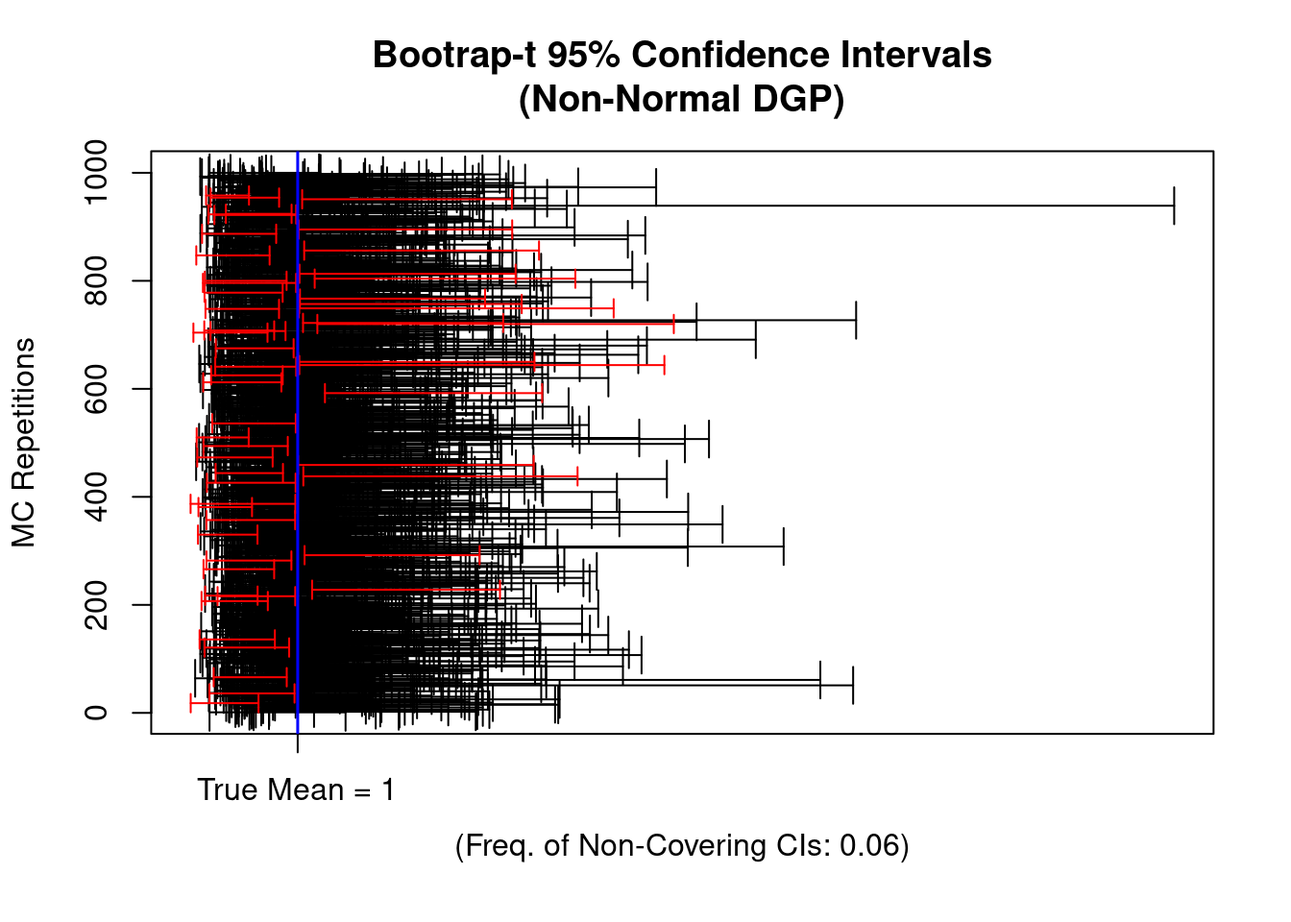
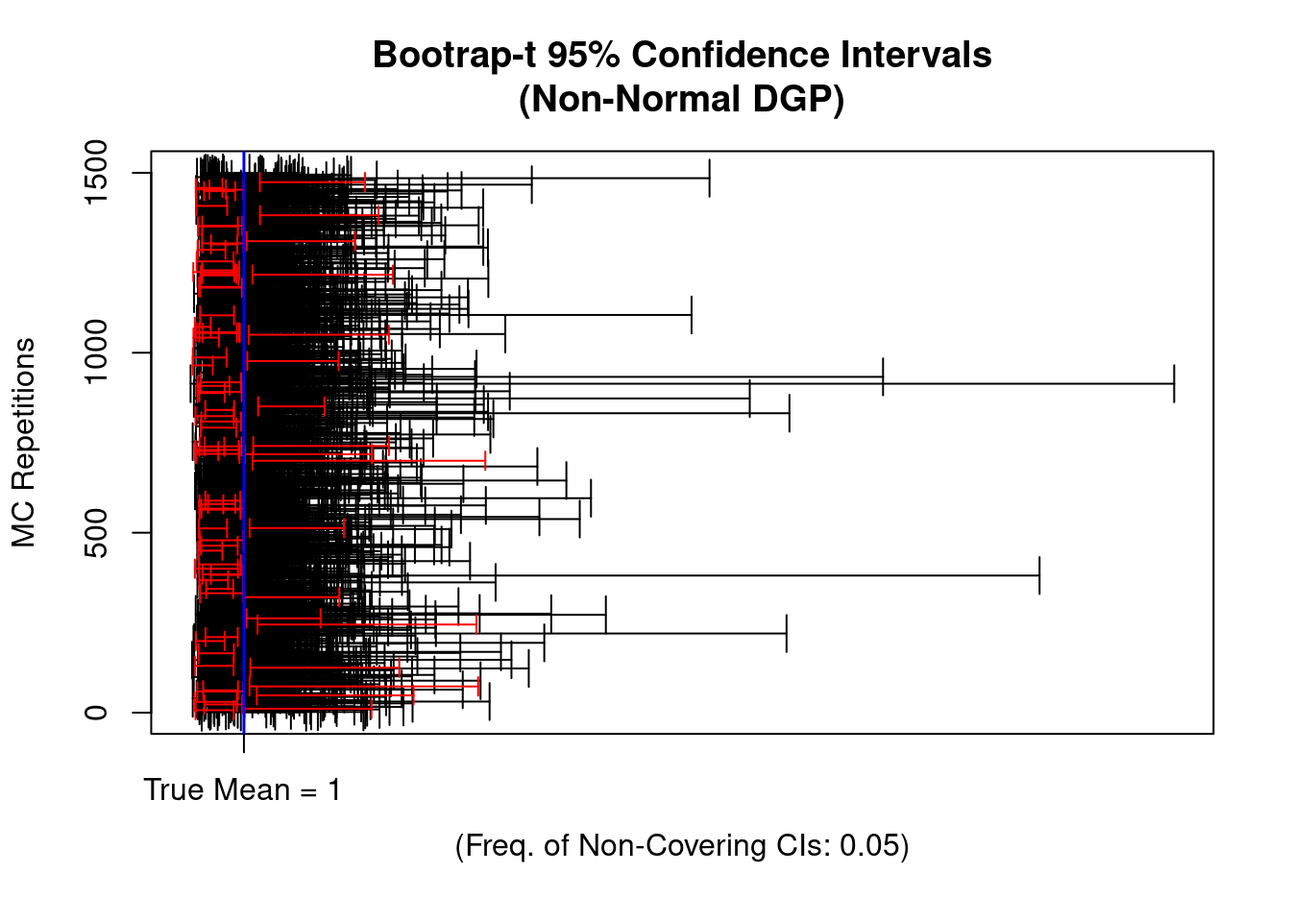
upd1

diff --git a/Ch3_Solutions.html b/Ch3_Solutions.html
@@ -113,23 +113,29 @@ code span.wa { color: #60a0b0; font-weight: bold; font-style: italic; } /* Warni
 <h2 class="unnumbered anchored" data-anchor-id="solutions">Solutions</h2>
 <section id="exercise-1." class="level4 unnumbered">
 <h4 class="unnumbered anchored" data-anchor-id="exercise-1.">Exercise 1.</h4>
-<section id="a-part-1." class="level5 unnumbered">
-<h5 class="unnumbered anchored" data-anchor-id="a-part-1.">(a) Part 1.</h5>
+<section id="a" class="level5">
+<h5 class="anchored" data-anchor-id="a">(a)</h5>
 <p>The exact point-wise distribution of <span class="math inline">\(nF_n(x)\)</span> for a given <span class="math inline">\(x\in\mathbb{R}.\)</span><br>
 <span class="math display">\[
 \begin{align*}
 F_n(x)
-&amp; = \frac{1}{n} 1_{(X_i\leq x)}\\
+&amp; = \frac{1}{n} \sum_{i=1}^n 1_{(X_i\leq x)}\\
 \Rightarrow nF_n(x)
-&amp; = 1_{(X_i\leq x)} \sim \mathcal{Binom}\left(n,p=F(x)\right),
+&amp; = \sum_{i=1}^n 1_{(X_i\leq x)} \sim \mathcal{Binom}\left(n,p=F(x)\right),
 \end{align*}
 \]</span> since <span class="math inline">\(1_{(X_i\leq x)}\)</span> is a Bernoulli random variable with parameter <span class="math display">\[
-p=P(1_{(X_i\leq x)} = 1) = P(X_i \leq x) = F(x).
+\begin{align*}
+p
+&amp; = P(1_{(X_i\leq x)} = 1)
+&amp; = P(X_i \leq x)
+&amp; = F(x).
+\end{align*}
 \]</span></p>
 </section>
-<section id="a-part-2." class="level5 unnumbered">
-<h5 class="unnumbered anchored" data-anchor-id="a-part-2.">(a) Part 2.</h5>
-<p>The asymptotic point-wise distribution of <span class="math inline">\(F_n(x)\)</span> for a given <span class="math inline">\(x\in\mathbb{R}.\)</span> From part 1, we have that <span class="math display">\[
+<section id="b" class="level5">
+<h5 class="anchored" data-anchor-id="b">(b)</h5>
+<!-- The asymptotic  point-wise distribution of $F_n(x)$ for a given $x\in\mathbb{R}.$   -->
+<p>From (a), we have that <span class="math display">\[
 \begin{align*}
 \mathbb{E}(nF_n(x)) &amp;= nF(x)\\
 \Leftrightarrow\quad  \mathbb{E}(F_n(x)) &amp;= F(x)
@@ -140,11 +146,32 @@ p=P(1_{(X_i\leq x)} = 1) = P(X_i \leq x) = F(x).
 \Leftrightarrow \quad \mathbb{V}(F_n(x)) &amp;= \frac{F(x)(1-F(x))}{n}.
 \end{align*}
 \]</span></p>
-<p>Moreover, since <span class="math inline">\(F_n(x) = \frac{1}{n} 1_{(X_i\leq x)}\)</span> is an average over i.i.d. random variables <span class="math inline">\(1_{(X_1\leq x)},\dots,1_{(X_n\leq x)},\)</span> the standard CLT implies <span class="math display">\[
+<p>Moreover, since <span class="math inline">\(F_n(x) = \frac{1}{n} \sum_{i=1}^n 1_{(X_i\leq x)}\)</span> is an average over i.i.d. random variables <span class="math inline">\(1_{(X_1\leq x)},\dots,1_{(X_n\leq x)},\)</span> the standard CLT implies <span class="math display">\[
 \frac{F_n(x)-F(x)}{\sqrt{\frac{F(x)(1-F(x))}{n}}}\to_d\mathcal{N}(0,1).
-\]</span> Or <span class="math display">\[
+\]</span> Or with a slight abuse of notation: <span class="math display">\[
 F_n(x)\overset{a}{\sim}\mathcal{N}\left(F(x),\frac{F(x)(1-F(x))}{n}\right).
 \]</span></p>
+</section>
+<section id="c" class="level5">
+<h5 class="anchored" data-anchor-id="c">(c)</h5>
+<p>The mean squared error between <span class="math inline">\(F_n(x)\)</span> and <span class="math inline">\(F(x)\)</span> is given by <span class="math display">\[
+\begin{align*}
+\operatorname{MSE}(F_n(x))
+&amp;= \mathbb{E}\left((F_n(x)-F(x))^2\right)\\[2ex]
+&amp;= \mathbb{V}(F_n(x)) + \left(\mathbb{E}(F_n(x))-F(x)\right)^2.
+\end{align*}
+\]</span> It follows from our previous results that for each <span class="math inline">\(x\in\mathbb{R}\)</span> <span class="math display">\[
+\mathbb{V}(F_n(x)) = \frac{F(x)(1-F(x))}{n} \to 0
+\]</span> as <span class="math inline">\(n\to\infty,\)</span> and that <span class="math display">\[
+\mathbb{E}(F_n(x)) -F(x) = 0
+\]</span> for all <span class="math inline">\(n.\)</span> Therefore, <span class="math display">\[
+\operatorname{MSE}(F_n(x)) = \mathbb{V}(F_n(x)) \to 0
+\]</span> as <span class="math inline">\(n\to\infty.\)</span> Thus we can conclude that <span class="math inline">\(F_n(x)\)</span> converges in the mean-square sense to <span class="math inline">\(F(x)\)</span> for each <span class="math inline">\(x\in\mathbb{R},\)</span> <span class="math display">\[
+F_n(x)\to_{ms} F(x)
+\]</span> as <span class="math inline">\(n\to\infty.\)</span></p>
+<p>Since convergence in the mean square sense implies convergence in probability, we also have that for each <span class="math inline">\(x\in\mathbb{R}\)</span> <span class="math display">\[
+F_n(x)\to_{p} F(x)
+\]</span> as <span class="math inline">\(n\to\infty\)</span> which shows that <span class="math inline">\(F_n(x)\)</span> is weakly consistent for <span class="math inline">\(F(x)\)</span> for each <span class="math inline">\(x\in\mathbb{R}.\)</span></p>
 </section>
 </section>
 <section id="exercise-2." class="level4 unnumbered">
@@ -162,7 +189,8 @@ Tip
 <p>Another, equivalent way to define uniform convergence:</p>
 <p><span class="math inline">\(g_n(\cdot)\)</span> converges <strong>uniformly</strong> to <span class="math inline">\(g(\cdot)\)</span> if for every <span class="math inline">\(\varepsilon&gt;0,\)</span> there exists an <span class="math inline">\(N\)</span> such that <span class="math display">\[
 |g_n(x) - g(x)| &lt; \varepsilon
-\]</span> for all <span class="math inline">\(n\geq N\)</span> and <strong>for all</strong> <span class="math inline">\(x\in\mathcal{X}.\)</span> I.e., if it is possible to draw an <span class="math inline">\(\varepsilon\)</span>-band around the graph of <span class="math inline">\(g(x)\)</span> that contains all of the graphs of <span class="math inline">\(g_n(x)\)</span> for large enough <span class="math inline">\(n.\)</span></p>
+\]</span> for all <span class="math inline">\(n\geq N\)</span> and <strong>for all</strong> <span class="math inline">\(x\in\mathcal{X}.\)</span></p>
+<p>I.e., <span class="math inline">\(g_n(\cdot)\)</span> converges <strong>uniformly</strong> to <span class="math inline">\(g(\cdot)\)</span> if it is possible to draw an <span class="math inline">\(\varepsilon\)</span>-band around the graph of <span class="math inline">\(g(x)\)</span> that contains <strong>all of the graphs</strong> of <span class="math inline">\(g_n(x)\)</span> for large enough <span class="math inline">\(n.\)</span></p>
 </div>
 </div>
 <p><strong>Example 1:</strong> <span class="math inline">\(\mathcal{X}=\mathbb{R}\)</span><br> The function <span class="math display">\[
@@ -200,13 +228,13 @@ g(x)=0,
 <li><span class="math inline">\(\mathbb{V}(X_i)=\sigma^2&lt;\infty\)</span></li>
 <li>Estimator: <span class="math inline">\(\bar{X}_n=n^{-1}\sum_{i=1}^nX_i\)</span></li>
 </ul>
-<p>If <span class="math inline">\(F\)</span> is a Normal distribution:</p>
+<p>If <span class="math inline">\(F\)</span> is a normal distribution:</p>
 <p><span class="math display">\[
 \begin{array}{rlc}
 \sqrt{n}\left(\frac{\bar{X}_n-\mu}{\sigma}\right)\sim \mathcal{N}(0,1)\quad\text{for all}\;n.
 \end{array}
 \]</span></p>
-<p>For Non-Normal distributions <span class="math inline">\(F\)</span> we have by the Central <a href="https://www.statlect.com/asymptotic-theory/central-limit-theorem">Limit Theorem</a>: <span class="math display">\[
+<p>For non-normal distributions <span class="math inline">\(F\)</span> we have by the classic CLT: <span class="math display">\[
 \begin{array}{rlc}
 \sqrt{n}\left(\frac{\bar{X}_n-\mu}{\sigma}\right)\to_d \mathcal{N}(0,1)\quad\text{as}\;n\to\infty.
 \end{array}
@@ -219,20 +247,20 @@ g(x)=0,
 \]</span></p>
 <p>The <strong>classic confidence interval</strong> is then based on the above (asymptotic) normality result: <span class="math display">\[
 \operatorname{CI}_{\operatorname{classic},n}=\left[\bar{X}_n\,-\,z_{1-\alpha/2}\frac{s}{\sqrt{n}},\bar{X}_n\,+\,z_{1-\alpha/2}\frac{s}{\sqrt{n}}\right],
-\]</span> where <span class="math inline">\(z_{1-\alpha/2}\)</span> is the <span class="math inline">\((1-\alpha/2)\)</span>-quantile of the standard normal distribution. Alternatively, one can apply a small-sample correction by using the <span class="math inline">\((1-\alpha/2)\)</span>-quantile <span class="math inline">\(t_{n-1, 1-\alpha/2}\)</span> of the <span class="math inline">\(t\)</span>-distribution with <span class="math inline">\(n-1\)</span> degrees of freedom.</p>
+\]</span> where <span class="math inline">\(z_{1-\alpha/2}\)</span> is the <span class="math inline">\((1-\alpha/2)\)</span>-quantile of the standard normal distribution. Alternatively, one can apply a “small-sample correction” by using the <span class="math inline">\((1-\alpha/2)\)</span>-quantile <span class="math inline">\(t_{n-1, 1-\alpha/2}\)</span> of the <span class="math inline">\(t\)</span>-distribution with <span class="math inline">\(n-1\)</span> degrees of freedom.</p>
 <p>From the above arguments it follows that: <span class="math display">\[
-\mathbb{P}\left(\mu\in \operatorname{CI}_{\operatorname{classic},n}\right)\to 1-\alpha\quad\text{as}\quad n\to\infty.
+P\left(\mu\in \operatorname{CI}_{\operatorname{classic},n}\right)\to 1-\alpha\quad\text{as}\quad n\to\infty.
 \]</span></p>
-<p>Let us consider the finite-<span class="math inline">\(n\)</span> (with <span class="math inline">\(n=30\)</span>) performance of the classic confidence interval for the case where <span class="math inline">\(F\)</span> is a <strong>normal distribution</strong> with mean <span class="math inline">\(\mu=1\)</span> and standard deviation <span class="math inline">\(\sigma=2\)</span>:</p>
+<p>Let us consider the finite-<span class="math inline">\(n\)</span> (with <span class="math inline">\(n=20\)</span>) performance of the classic confidence interval for the case where <span class="math inline">\(F\)</span> is a <strong>normal distribution</strong> with mean <span class="math inline">\(\mu=1\)</span> and standard deviation <span class="math inline">\(\sigma=2\)</span>:</p>
 <div class="cell">
 <div class="sourceCode cell-code" id="cb1"><pre class="sourceCode r code-with-copy"><code class="sourceCode r"><span id="cb1-1"><a href="#cb1-1" aria-hidden="true" tabindex="-1"></a><span class="do">##  Setup:</span></span>
-<span id="cb1-2"><a href="#cb1-2" aria-hidden="true" tabindex="-1"></a>n     <span class="ot">&lt;-</span>   <span class="dv">30</span> <span class="co"># Sample Size</span></span>
+<span id="cb1-2"><a href="#cb1-2" aria-hidden="true" tabindex="-1"></a>n     <span class="ot">&lt;-</span>   <span class="dv">20</span> <span class="co"># Sample Size</span></span>
 <span id="cb1-3"><a href="#cb1-3" aria-hidden="true" tabindex="-1"></a>mean  <span class="ot">&lt;-</span>    <span class="dv">1</span> <span class="co"># Mean</span></span>
 <span id="cb1-4"><a href="#cb1-4" aria-hidden="true" tabindex="-1"></a>sdev  <span class="ot">&lt;-</span>    <span class="dv">2</span> <span class="co"># Standard Deviation</span></span>
 <span id="cb1-5"><a href="#cb1-5" aria-hidden="true" tabindex="-1"></a>alpha <span class="ot">&lt;-</span> <span class="fl">0.05</span> <span class="co"># Level</span></span>
 <span id="cb1-6"><a href="#cb1-6" aria-hidden="true" tabindex="-1"></a></span>
 <span id="cb1-7"><a href="#cb1-7" aria-hidden="true" tabindex="-1"></a><span class="fu">set.seed</span>(<span class="dv">123</span>)</span>
-<span id="cb1-8"><a href="#cb1-8" aria-hidden="true" tabindex="-1"></a>B          <span class="ot">&lt;-</span> <span class="dv">1000</span> <span class="co"># MC repetitions</span></span>
+<span id="cb1-8"><a href="#cb1-8" aria-hidden="true" tabindex="-1"></a>B          <span class="ot">&lt;-</span> <span class="dv">1500</span> <span class="co"># MC repetitions</span></span>
 <span id="cb1-9"><a href="#cb1-9" aria-hidden="true" tabindex="-1"></a>CI.lo.vec  <span class="ot">&lt;-</span> <span class="fu">rep</span>(<span class="cn">NA</span>, B)</span>
 <span id="cb1-10"><a href="#cb1-10" aria-hidden="true" tabindex="-1"></a>CI.up.vec  <span class="ot">&lt;-</span> <span class="fu">rep</span>(<span class="cn">NA</span>, B)</span>
 <span id="cb1-11"><a href="#cb1-11" aria-hidden="true" tabindex="-1"></a>  </span>
@@ -280,17 +308,17 @@ g(x)=0,
 </div>
 </div>
 </section>
-<section id="a-part-2-classic-confidence-interval-n30-and-x_isim-chi2_1" class="level5 unnumbered">
-<h5 class="unnumbered anchored" data-anchor-id="a-part-2-classic-confidence-interval-n30-and-x_isim-chi2_1">(a) Part 2: Classic Confidence Interval (<span class="math inline">\(n=30\)</span> and <span class="math inline">\(X_i\sim \chi^2_1\)</span>)</h5>
+<section id="a-part-2-classic-confidence-interval-n20-and-x_isim-chi2_1" class="level5 unnumbered">
+<h5 class="unnumbered anchored" data-anchor-id="a-part-2-classic-confidence-interval-n20-and-x_isim-chi2_1">(a) Part 2: Classic Confidence Interval (<span class="math inline">\(n=20\)</span> and <span class="math inline">\(X_i\sim \chi^2_1\)</span>)</h5>
 <p>Now, we consider the finite-<span class="math inline">\(n\)</span> performance of the classic confidence interval under the same setup as above, but for the case where <span class="math inline">\(F\)</span> is a <strong>non-normal distribution</strong>, namely, a <span class="math inline">\(\chi^2_1\)</span>-distribution with <span class="math inline">\(1\)</span> degree of freedom:</p>
 <div class="cell">
 <div class="sourceCode cell-code" id="cb2"><pre class="sourceCode r code-with-copy"><code class="sourceCode r"><span id="cb2-1"><a href="#cb2-1" aria-hidden="true" tabindex="-1"></a><span class="do">## Setup:</span></span>
-<span id="cb2-2"><a href="#cb2-2" aria-hidden="true" tabindex="-1"></a>n     <span class="ot">&lt;-</span>   <span class="dv">30</span>  <span class="co"># Sample Size</span></span>
+<span id="cb2-2"><a href="#cb2-2" aria-hidden="true" tabindex="-1"></a>n     <span class="ot">&lt;-</span>   <span class="dv">20</span>  <span class="co"># Sample Size</span></span>
 <span id="cb2-3"><a href="#cb2-3" aria-hidden="true" tabindex="-1"></a>df    <span class="ot">&lt;-</span>    <span class="dv">1</span>  <span class="co"># (=&gt; mean==1)</span></span>
 <span id="cb2-4"><a href="#cb2-4" aria-hidden="true" tabindex="-1"></a>alpha <span class="ot">&lt;-</span> <span class="fl">0.05</span> <span class="co"># Level</span></span>
 <span id="cb2-5"><a href="#cb2-5" aria-hidden="true" tabindex="-1"></a></span>
 <span id="cb2-6"><a href="#cb2-6" aria-hidden="true" tabindex="-1"></a><span class="fu">set.seed</span>(<span class="dv">123</span>)</span>
-<span id="cb2-7"><a href="#cb2-7" aria-hidden="true" tabindex="-1"></a>B          <span class="ot">&lt;-</span> <span class="dv">1000</span> <span class="co"># MC repetitions</span></span>
+<span id="cb2-7"><a href="#cb2-7" aria-hidden="true" tabindex="-1"></a>B          <span class="ot">&lt;-</span> <span class="dv">1500</span> <span class="co"># MC repetitions</span></span>
 <span id="cb2-8"><a href="#cb2-8" aria-hidden="true" tabindex="-1"></a>CI.lo.vec  <span class="ot">&lt;-</span> <span class="fu">rep</span>(<span class="cn">NA</span>, B)</span>
 <span id="cb2-9"><a href="#cb2-9" aria-hidden="true" tabindex="-1"></a>CI.up.vec  <span class="ot">&lt;-</span> <span class="fu">rep</span>(<span class="cn">NA</span>, B)</span>
 <span id="cb2-10"><a href="#cb2-10" aria-hidden="true" tabindex="-1"></a>  </span>
@@ -338,12 +366,12 @@ g(x)=0,
 </div>
 </div>
 </section>
-<section id="b-standard-bootstrap-confidence-interval-n30-and-x_isim-chi2_1" class="level5 unnumbered">
-<h5 class="unnumbered anchored" data-anchor-id="b-standard-bootstrap-confidence-interval-n30-and-x_isim-chi2_1">(b) Standard bootstrap confidence interval (<span class="math inline">\(n=30\)</span> and <span class="math inline">\(X_i\sim \chi^2_1\)</span>)</h5>
+<section id="b-standard-bootstrap-confidence-interval-n20-and-x_isim-chi2_1" class="level5 unnumbered">
+<h5 class="unnumbered anchored" data-anchor-id="b-standard-bootstrap-confidence-interval-n20-and-x_isim-chi2_1">(b) Standard bootstrap confidence interval (<span class="math inline">\(n=20\)</span> and <span class="math inline">\(X_i\sim \chi^2_1\)</span>)</h5>
 <p>Let’s generate an iid random sample <span class="math inline">\(S_n\)</span> with <span class="math inline">\(X_i\sim\chi^2_1\)</span> and the corresponding estimate <span class="math inline">\(\bar X_n\)</span>:</p>
 <div class="cell">
 <div class="sourceCode cell-code" id="cb3"><pre class="sourceCode r code-with-copy"><code class="sourceCode r"><span id="cb3-1"><a href="#cb3-1" aria-hidden="true" tabindex="-1"></a><span class="do">## Setup:</span></span>
-<span id="cb3-2"><a href="#cb3-2" aria-hidden="true" tabindex="-1"></a>n     <span class="ot">&lt;-</span>   <span class="dv">30</span>  <span class="co"># Sample Size</span></span>
+<span id="cb3-2"><a href="#cb3-2" aria-hidden="true" tabindex="-1"></a>n     <span class="ot">&lt;-</span>   <span class="dv">20</span>  <span class="co"># Sample Size</span></span>
 <span id="cb3-3"><a href="#cb3-3" aria-hidden="true" tabindex="-1"></a>df    <span class="ot">&lt;-</span>    <span class="dv">1</span>  <span class="co"># (=&gt; mean==1)</span></span>
 <span id="cb3-4"><a href="#cb3-4" aria-hidden="true" tabindex="-1"></a></span>
 <span id="cb3-5"><a href="#cb3-5" aria-hidden="true" tabindex="-1"></a><span class="do">## IID random sample:</span></span>
@@ -353,7 +381,7 @@ g(x)=0,
 <span id="cb3-9"><a href="#cb3-9" aria-hidden="true" tabindex="-1"></a><span class="do">## Empirical mean:</span></span>
 <span id="cb3-10"><a href="#cb3-10" aria-hidden="true" tabindex="-1"></a>(X.bar <span class="ot">&lt;-</span> <span class="fu">mean</span>(S_n))</span></code><button title="Copy to Clipboard" class="code-copy-button"><i class="bi"></i></button></pre></div>
 <div class="cell-output cell-output-stdout">
-<pre><code>[1] 0.6714433</code></pre>
+<pre><code>[1] 0.6737282</code></pre>
 </div>
 </div>
 <p>The <strong>standard bootstrap confidence interval</strong> is given by (see lecture script): <span class="math display">\[
@@ -398,13 +426,13 @@ g(x)=0,
 <span id="cb6-9"><a href="#cb6-9" aria-hidden="true" tabindex="-1"></a><span class="fu">c</span>(CI.Basic.Bootstr.lo, CI.Basic.Bootstr.up)</span></code><button title="Copy to Clipboard" class="code-copy-button"><i class="bi"></i></button></pre></div>
 <div class="cell-output cell-output-stdout">
 <pre><code>     2.5%     97.5% 
-0.2768057 0.9881280 </code></pre>
+0.1545224 1.0425228 </code></pre>
 </div>
 </div>
 <p>Now, we can investigate the finite-<span class="math inline">\(n\)</span> performance of the standard bootstrap confidence interval:</p>
 <div class="cell">
 <div class="sourceCode cell-code" id="cb8"><pre class="sourceCode r code-with-copy"><code class="sourceCode r"><span id="cb8-1"><a href="#cb8-1" aria-hidden="true" tabindex="-1"></a><span class="do">## Setup:</span></span>
-<span id="cb8-2"><a href="#cb8-2" aria-hidden="true" tabindex="-1"></a>n     <span class="ot">&lt;-</span>   <span class="dv">30</span>  <span class="co"># Sample Size</span></span>
+<span id="cb8-2"><a href="#cb8-2" aria-hidden="true" tabindex="-1"></a>n     <span class="ot">&lt;-</span>   <span class="dv">20</span>  <span class="co"># Sample Size</span></span>
 <span id="cb8-3"><a href="#cb8-3" aria-hidden="true" tabindex="-1"></a>df    <span class="ot">&lt;-</span>    <span class="dv">1</span>  <span class="co"># (=&gt; mean==1)</span></span>
 <span id="cb8-4"><a href="#cb8-4" aria-hidden="true" tabindex="-1"></a>mean  <span class="ot">&lt;-</span>   df</span>
 <span id="cb8-5"><a href="#cb8-5" aria-hidden="true" tabindex="-1"></a>alpha <span class="ot">&lt;-</span> <span class="fl">0.05</span> <span class="co"># Level</span></span>
@@ -412,7 +440,7 @@ g(x)=0,
 <span id="cb8-7"><a href="#cb8-7" aria-hidden="true" tabindex="-1"></a></span>
 <span id="cb8-8"><a href="#cb8-8" aria-hidden="true" tabindex="-1"></a><span class="do">## MC-Setup:</span></span>
 <span id="cb8-9"><a href="#cb8-9" aria-hidden="true" tabindex="-1"></a><span class="fu">set.seed</span>(<span class="dv">123</span>)</span>
-<span id="cb8-10"><a href="#cb8-10" aria-hidden="true" tabindex="-1"></a>B          <span class="ot">&lt;-</span> <span class="dv">1000</span> <span class="co"># MC repetitions</span></span>
+<span id="cb8-10"><a href="#cb8-10" aria-hidden="true" tabindex="-1"></a>B          <span class="ot">&lt;-</span> <span class="dv">1500</span> <span class="co"># MC repetitions</span></span>
 <span id="cb8-11"><a href="#cb8-11" aria-hidden="true" tabindex="-1"></a>CI.Basic.Bstr.lo.vec <span class="ot">&lt;-</span> <span class="fu">rep</span>(<span class="cn">NA</span>, B)</span>
 <span id="cb8-12"><a href="#cb8-12" aria-hidden="true" tabindex="-1"></a>CI.Basic.Bstr.up.vec <span class="ot">&lt;-</span> <span class="fu">rep</span>(<span class="cn">NA</span>, B)</span>
 <span id="cb8-13"><a href="#cb8-13" aria-hidden="true" tabindex="-1"></a></span>
@@ -465,17 +493,17 @@ g(x)=0,
 </div>
 </div>
 </section>
-<section id="c-bootstrap-t-confidence-interval-n30-and-x_isim-chi2_1" class="level5 unnumbered">
-<h5 class="unnumbered anchored" data-anchor-id="c-bootstrap-t-confidence-interval-n30-and-x_isim-chi2_1">(c) Bootstrap-<span class="math inline">\(t\)</span> confidence interval (<span class="math inline">\(n=30\)</span> and <span class="math inline">\(X_i\sim \chi^2_1\)</span>)</h5>
+<section id="c-bootstrap-t-confidence-interval-n20-and-x_isim-chi2_1" class="level5 unnumbered">
+<h5 class="unnumbered anchored" data-anchor-id="c-bootstrap-t-confidence-interval-n20-and-x_isim-chi2_1">(c) Bootstrap-<span class="math inline">\(t\)</span> confidence interval (<span class="math inline">\(n=20\)</span> and <span class="math inline">\(X_i\sim \chi^2_1\)</span>)</h5>
 <p>The bootstrap-t confidence interval is given by (see lecture script): <span class="math display">\[
 \left[\bar{X}_n-\hat{\tau}_{1-\alpha/2}\hat\sigma,  \bar{X}_n-\hat{\tau}_{\alpha/2}\hat\sigma\right],
 \]</span> where <span class="math inline">\(\hat\sigma=(n-1)^{-1}\sum_{i=1}^n(X_i-\bar{X}_n)^2\)</span>, and where <span class="math inline">\(\hat{\tau}_{\alpha/2}\)</span> and <span class="math inline">\(\hat{\tau}_{1-\alpha/2}\)</span> denote the <span class="math inline">\((\alpha/2)\)</span> and the <span class="math inline">\((1-\alpha/2)\)</span>-quantiles of the bootstrap distribution of: <span class="math display">\[
 \frac{\bar{X}_n^\ast-\bar{X}_n}{\hat\sigma^\ast}.
 \]</span></p>
-<p>In the following we generate the bootrap distribution of <span class="math inline">\((\bar{X}_n^\ast-\bar{X}_n)/\hat\sigma^\ast\)</span>, compute the quantiles <span class="math inline">\(\hat{\tau}_{\alpha/2}\)</span> and <span class="math inline">\(\hat{\tau}_{1-\alpha/2}\)</span>, and plot all of this:</p>
+<p>In the following we approximate the bootstrap distribution of <span class="math inline">\((\bar{X}_n^\ast-\bar{X}_n)/\hat\sigma^\ast\)</span>, compute the quantiles <span class="math inline">\(\hat{\tau}_{\alpha/2}\)</span> and <span class="math inline">\(\hat{\tau}_{1-\alpha/2}\)</span>, and plot all of this:</p>
 <div class="cell" data-fig.margin="true">
 <div class="sourceCode cell-code" id="cb9"><pre class="sourceCode r code-with-copy"><code class="sourceCode r"><span id="cb9-1"><a href="#cb9-1" aria-hidden="true" tabindex="-1"></a><span class="do">## Setup:</span></span>
-<span id="cb9-2"><a href="#cb9-2" aria-hidden="true" tabindex="-1"></a>n     <span class="ot">&lt;-</span>   <span class="dv">30</span>  <span class="co"># Sample Size</span></span>
+<span id="cb9-2"><a href="#cb9-2" aria-hidden="true" tabindex="-1"></a>n     <span class="ot">&lt;-</span>   <span class="dv">20</span>  <span class="co"># Sample Size</span></span>
 <span id="cb9-3"><a href="#cb9-3" aria-hidden="true" tabindex="-1"></a>df    <span class="ot">&lt;-</span>    <span class="dv">1</span>  <span class="co"># (=&gt; mean==1)</span></span>
 <span id="cb9-4"><a href="#cb9-4" aria-hidden="true" tabindex="-1"></a></span>
 <span id="cb9-5"><a href="#cb9-5" aria-hidden="true" tabindex="-1"></a><span class="do">## IID random sample:</span></span>
@@ -526,13 +554,13 @@ g(x)=0,
 <span id="cb10-9"><a href="#cb10-9" aria-hidden="true" tabindex="-1"></a><span class="fu">c</span>(CI.Bstr.t.lo, CI.Bstr.t.up)</span></code><button title="Copy to Clipboard" class="code-copy-button"><i class="bi"></i></button></pre></div>
 <div class="cell-output cell-output-stdout">
 <pre><code>     2.5%     97.5% 
-0.3804525 1.3363890 </code></pre>
+0.3052027 2.0241321 </code></pre>
 </div>
 </div>
 <p>Let us investigate the finite-<span class="math inline">\(n\)</span> performance of the bootstrap-t confidence interval:</p>
 <div class="cell">
 <div class="sourceCode cell-code" id="cb12"><pre class="sourceCode r code-with-copy"><code class="sourceCode r"><span id="cb12-1"><a href="#cb12-1" aria-hidden="true" tabindex="-1"></a><span class="do">## Setup:</span></span>
-<span id="cb12-2"><a href="#cb12-2" aria-hidden="true" tabindex="-1"></a>n     <span class="ot">&lt;-</span>   <span class="dv">30</span>  <span class="co"># Sample Size</span></span>
+<span id="cb12-2"><a href="#cb12-2" aria-hidden="true" tabindex="-1"></a>n     <span class="ot">&lt;-</span>   <span class="dv">20</span>  <span class="co"># Sample Size</span></span>
 <span id="cb12-3"><a href="#cb12-3" aria-hidden="true" tabindex="-1"></a>df    <span class="ot">&lt;-</span>    <span class="dv">1</span>  <span class="co"># (=&gt; mean==1)</span></span>
 <span id="cb12-4"><a href="#cb12-4" aria-hidden="true" tabindex="-1"></a>mean  <span class="ot">&lt;-</span>   df</span>
 <span id="cb12-5"><a href="#cb12-5" aria-hidden="true" tabindex="-1"></a>alpha <span class="ot">&lt;-</span> <span class="fl">0.05</span> <span class="co"># Level</span></span>
@@ -540,7 +568,7 @@ g(x)=0,
 <span id="cb12-7"><a href="#cb12-7" aria-hidden="true" tabindex="-1"></a></span>
 <span id="cb12-8"><a href="#cb12-8" aria-hidden="true" tabindex="-1"></a><span class="do">## MC-Setup:</span></span>
 <span id="cb12-9"><a href="#cb12-9" aria-hidden="true" tabindex="-1"></a><span class="fu">set.seed</span>(<span class="dv">123</span>)</span>
-<span id="cb12-10"><a href="#cb12-10" aria-hidden="true" tabindex="-1"></a>B          <span class="ot">&lt;-</span> <span class="dv">1000</span> <span class="co"># MC repetitions</span></span>
+<span id="cb12-10"><a href="#cb12-10" aria-hidden="true" tabindex="-1"></a>B          <span class="ot">&lt;-</span> <span class="dv">1500</span> <span class="co"># MC repetitions</span></span>
 <span id="cb12-11"><a href="#cb12-11" aria-hidden="true" tabindex="-1"></a>CI.Bstr.t.lo.vec <span class="ot">&lt;-</span> <span class="fu">rep</span>(<span class="cn">NA</span>, B)</span>
 <span id="cb12-12"><a href="#cb12-12" aria-hidden="true" tabindex="-1"></a>CI.Bstr.t.up.vec <span class="ot">&lt;-</span> <span class="fu">rep</span>(<span class="cn">NA</span>, B)</span>
 <span id="cb12-13"><a href="#cb12-13" aria-hidden="true" tabindex="-1"></a></span>

diff --git a/docs/Ch3_Bootstrap.html b/docs/Ch3_Bootstrap.html
@@ -1596,7 +1596,8 @@ F_n(x) = \frac{1}{n}\sum_{i=1}^n 1_{(X_i\leq x)}
 X_1,\dots,X_n\overset{\text{i.i.d.}}{\sim} F.
 \]</span></p>
 <ol type="a">
-<li><p>Derive the exact distribution of <span class="math inline">\(nF_n(x)\)</span> and the asymptotic distribution of the empirical distribution function <span class="math inline">\(F_n(x)\)</span> for a given <span class="math inline">\(x\in\mathbb{R}.\)</span></p></li>
+<li><p>Derive the exact distribution of <span class="math inline">\(nF_n(x)\)</span> for a given <span class="math inline">\(x\in\mathbb{R}.\)</span></p></li>
+<li><p>Derive the asymptotic distribution of <span class="math inline">\(F_n(x)\)</span> for a given <span class="math inline">\(x\in\mathbb{R}.\)</span></p></li>
 <li><p>Show that <span class="math inline">\(F_n(x)\)</span> is a point-wise (weakly) consistent estimator of <span class="math inline">\(F(x)\)</span> for each given <span class="math inline">\(x\in\mathbb{R}\)</span>.</p></li>
 </ol>
 </section>
